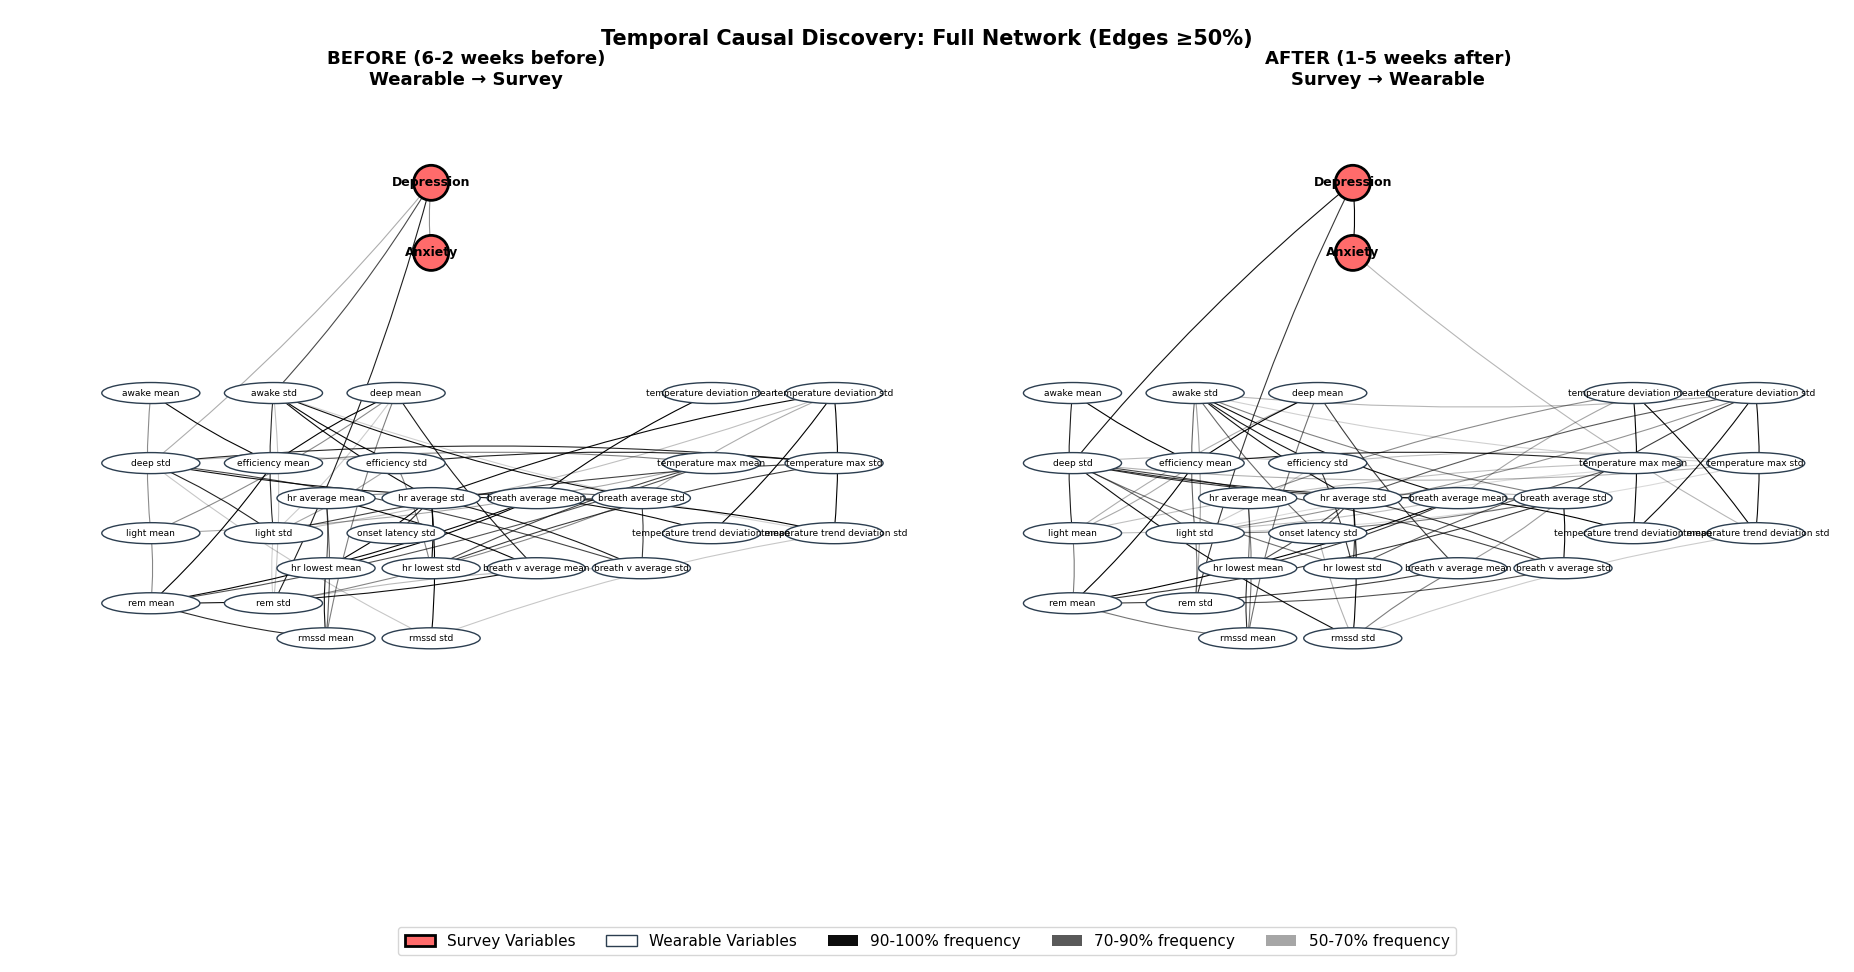
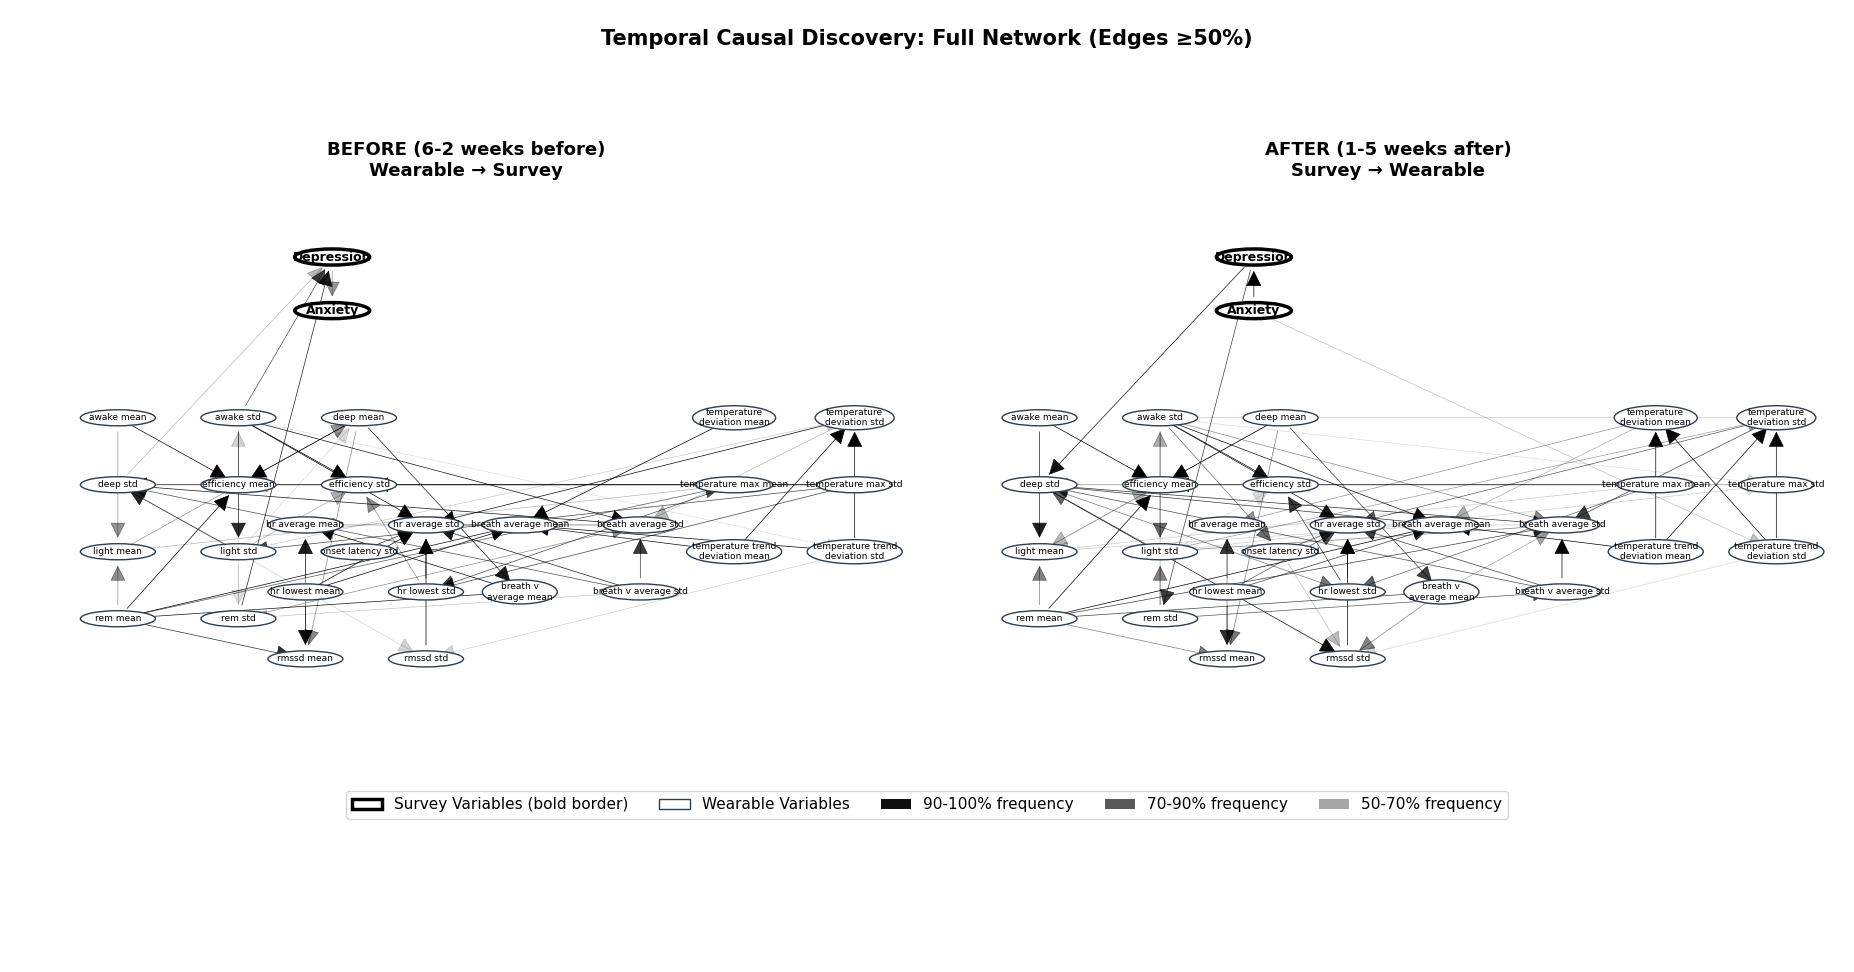
add another version of causal diagram plotting

diff --git a/plot_causal_diagram_2.py b/plot_causal_diagram_2.py
@@ -1,0 +1,347 @@
+import matplotlib.pyplot as plt
+import matplotlib.patches as mpatches
+from matplotlib.patches import Ellipse, Circle, FancyArrowPatch
+import numpy as np
+
+# All edges ≥50% for BEFORE period (wearable → survey)
+before_edges = {
+    ('rem_std', 'promis_dep_sum'): 93,
+    ('awake_std', 'promis_dep_sum'): 83,
+    ('promis_dep_sum', 'promis_anx_sum'): 67,
+    ('deep_std', 'promis_dep_sum'): 60,
+    ('rmssd_std', 'hr_average_std'): 100,
+    ('hr_lowest_mean', 'hr_average_std'): 100,
+    ('hr_lowest_std', 'hr_average_std'): 100,
+    ('hr_lowest_mean', 'breath_average_mean'): 100,
+    ('temperature_deviation_mean', 'breath_average_mean'): 100,
+    ('temperature_trend_deviation_std', 'breath_average_mean'): 100,
+    ('temperature_trend_deviation_mean', 'temperature_deviation_std'): 100,
+    ('temperature_trend_deviation_std', 'temperature_deviation_std'): 100,
+    ('deep_mean', 'efficiency_mean'): 100,
+    ('rem_mean', 'efficiency_mean'): 100,
+    ('breath_v_average_mean', 'hr_average_mean'): 99,
+    ('rem_mean', 'breath_average_mean'): 99,
+    ('awake_mean', 'efficiency_mean'): 99,
+    ('awake_std', 'efficiency_std'): 99,
+    ('temperature_deviation_std', 'hr_average_std'): 98,
+    ('awake_std', 'hr_average_std'): 98,
+    ('hr_lowest_mean', 'rmssd_mean'): 97,
+    ('temperature_trend_deviation_mean', 'breath_average_mean'): 97,
+    ('deep_std', 'breath_average_std'): 96,
+    ('awake_std', 'breath_average_std'): 96,
+    ('rem_mean', 'breath_v_average_mean'): 96,
+    ('breath_v_average_std', 'hr_average_std'): 94,
+    ('deep_mean', 'breath_v_average_mean'): 94,
+    ('temperature_max_std', 'efficiency_std'): 92,
+    ('light_std', 'deep_std'): 92,
+    ('onset_latency_std', 'hr_average_std'): 91,
+    ('temperature_max_std', 'deep_std'): 91,
+    ('rem_mean', 'rmssd_mean'): 90,
+    ('awake_std', 'light_std'): 90,
+    ('breath_v_average_std', 'breath_average_std'): 87,
+    ('temperature_max_std', 'hr_lowest_std'): 86,
+    ('temperature_max_std', 'light_std'): 85,
+    ('temperature_max_mean', 'hr_lowest_std'): 84,
+    ('breath_v_average_std', 'deep_std'): 84,
+    ('hr_lowest_mean', 'hr_average_mean'): 82,
+    ('rem_mean', 'temperature_max_mean'): 81,
+    ('rmssd_mean', 'hr_average_mean'): 78,
+    ('breath_average_std', 'hr_average_std'): 77,
+    ('deep_mean', 'rmssd_mean'): 71,
+    ('temperature_max_mean', 'efficiency_mean'): 70,
+    ('rem_std', 'breath_average_std'): 69,
+    ('rem_mean', 'light_mean'): 69,
+    ('hr_lowest_std', 'efficiency_std'): 69,
+    ('breath_average_mean', 'hr_average_mean'): 68,
+    ('awake_mean', 'light_mean'): 68,
+    ('light_mean', 'deep_mean'): 68,
+    ('light_std', 'efficiency_std'): 62,
+    ('light_mean', 'temperature_max_mean'): 61,
+    ('temperature_deviation_std', 'breath_average_std'): 60,
+    ('breath_v_average_std', 'rem_std'): 57,
+    ('efficiency_std', 'deep_std'): 57,
+    ('light_std', 'temperature_deviation_std'): 56,
+    ('rem_std', 'awake_std'): 55,
+    ('deep_std', 'rmssd_std'): 54,
+    ('temperature_trend_deviation_std', 'rmssd_std'): 54,
+    ('light_std', 'deep_mean'): 53,
+    ('awake_std', 'temperature_trend_deviation_std'): 52,
+    ('light_std', 'rem_std'): 52,
+}
+
+# All edges ≥50% for AFTER period (survey → wearable)
+after_edges = {
+    ('promis_anx_sum', 'promis_dep_sum'): 100,
+    ('promis_dep_sum', 'deep_std'): 96,
+    ('promis_dep_sum', 'rem_std'): 87,
+    ('promis_anx_sum', 'temperature_trend_deviation_std'): 58,
+    ('rmssd_std', 'hr_average_std'): 100,
+    ('temperature_trend_deviation_mean', 'breath_average_mean'): 100,
+    ('rem_mean', 'breath_average_mean'): 100,
+    ('deep_mean', 'efficiency_mean'): 100,
+    ('rem_mean', 'efficiency_mean'): 100,
+    ('awake_mean', 'efficiency_mean'): 100,
+    ('breath_v_average_std', 'breath_average_std'): 99,
+    ('temperature_trend_deviation_mean', 'temperature_deviation_mean'): 99,
+    ('temperature_trend_deviation_std', 'temperature_deviation_mean'): 99,
+    ('temperature_trend_deviation_mean', 'temperature_deviation_std'): 98,
+    ('temperature_trend_deviation_std', 'temperature_deviation_std'): 98,
+    ('deep_std', 'rmssd_std'): 97,
+    ('awake_std', 'breath_average_mean'): 97,
+    ('awake_std', 'hr_average_std'): 96,
+    ('awake_std', 'efficiency_std'): 95,
+    ('awake_mean', 'light_mean'): 93,
+    ('temperature_max_mean', 'efficiency_mean'): 92,
+    ('hr_lowest_mean', 'rmssd_mean'): 90,
+    ('deep_std', 'breath_average_std'): 90,
+    ('hr_lowest_std', 'hr_average_std'): 88,
+    ('deep_std', 'breath_average_mean'): 88,
+    ('breath_v_average_std', 'hr_average_std'): 87,
+    ('rem_mean', 'breath_average_std'): 87,
+    ('hr_lowest_std', 'efficiency_std'): 87,
+    ('hr_lowest_mean', 'breath_average_mean'): 87,
+    ('deep_mean', 'breath_v_average_mean'): 86,
+    ('rem_mean', 'breath_v_average_mean'): 86,
+    ('temperature_deviation_std', 'breath_average_std'): 86,
+    ('breath_v_average_std', 'deep_std'): 84,
+    ('onset_latency_std', 'hr_average_std'): 83,
+    ('hr_lowest_mean', 'hr_average_std'): 82,
+    ('rem_std', 'breath_v_average_std'): 81,
+    ('temperature_deviation_std', 'hr_average_std'): 80,
+    ('temperature_max_mean', 'hr_lowest_std'): 79,
+    ('light_std', 'deep_std'): 78,
+    ('awake_std', 'light_std'): 77,
+    ('awake_std', 'onset_latency_std'): 76,
+    ('deep_mean', 'rmssd_mean'): 74,
+    ('hr_lowest_mean', 'hr_average_mean'): 74,
+    ('deep_std', 'hr_lowest_std'): 74,
+    ('rem_mean', 'rmssd_mean'): 73,
+    ('rmssd_mean', 'hr_average_mean'): 73,
+    ('light_std', 'breath_average_std'): 72,
+    ('rem_mean', 'light_mean'): 72,
+    ('rem_std', 'light_std'): 72,
+    ('breath_v_average_mean', 'rmssd_std'): 71,
+    ('awake_std', 'breath_average_std'): 70,
+    ('temperature_deviation_mean', 'hr_average_mean'): 68,
+    ('light_std', 'temperature_deviation_std'): 66,
+    ('breath_v_average_mean', 'breath_average_std'): 64,
+    ('rem_std', 'awake_std'): 63,
+    ('temperature_deviation_mean', 'breath_average_mean'): 62,
+    ('light_mean', 'efficiency_mean'): 61,
+    ('deep_mean', 'light_mean'): 60,
+    ('onset_latency_std', 'rmssd_std'): 59,
+    ('deep_std', 'temperature_max_std'): 59,
+    ('awake_std', 'temperature_deviation_std'): 58,
+    ('breath_average_std', 'hr_average_std'): 57,
+    ('efficiency_std', 'deep_std'): 57,
+    ('temperature_max_mean', 'light_mean'): 56,
+    ('temperature_max_std', 'efficiency_std'): 56,
+    ('light_mean', 'breath_average_mean'): 56,
+    ('temperature_trend_deviation_std', 'rmssd_std'): 53,
+    ('light_std', 'efficiency_std'): 53,
+    ('awake_std', 'temperature_max_std'): 52,
+    ('breath_average_mean', 'hr_average_mean'): 51,
+    ('temperature_max_std', 'light_std'): 50,
+    ('light_std', 'temperature_max_std'): 50,
+}
+
+def format_label(var):
+    """Format variable label, breaking long names into two lines."""
+    if var == 'promis_dep_sum':
+        return 'Depression'
+    elif var == 'promis_anx_sum':
+        return 'Anxiety'
+    
+    # Replace underscores with spaces
+    label = var.replace('_', ' ')
+    
+    # Break long labels into two lines
+    if len(label) > 20:
+        words = label.split()
+        mid = len(words) // 2
+        line1 = ' '.join(words[:mid])
+        line2 = ' '.join(words[mid:])
+        return f"{line1}\n{line2}"
+    
+    return label
+
+def get_ellipse_size(var):
+    """Get ellipse size based on variable name length."""
+    label = format_label(var)
+    
+    # Check if label has line break
+    if '\n' in label:
+        max_line_len = max(len(line) for line in label.split('\n'))
+        width = max(2.8, max_line_len * 0.15 + 1.0)
+        height = 0.9
+    else:
+        width = max(2.8, len(label) * 0.12 + 0.5)
+        height = 0.6
+    
+    return width, height
+
+def create_hierarchical_layout(edges):
+    """Create a hierarchical layout with survey at top, grouped wearables below."""
+    survey_vars = {'promis_dep_sum', 'promis_anx_sum'}
+    
+    # Collect all nodes
+    all_nodes = set()
+    for (source, target) in edges.keys():
+        all_nodes.add(source)
+        all_nodes.add(target)
+    
+    # Separate survey and wearable variables
+    wearable_vars = all_nodes - survey_vars
+    
+    # Group wearables by category
+    sleep_vars = [v for v in wearable_vars if any(x in v for x in ['deep', 'rem', 'light', 'awake', 'efficiency', 'onset'])]
+    hr_vars = [v for v in wearable_vars if 'hr' in v or 'rmssd' in v]
+    breath_vars = [v for v in wearable_vars if 'breath' in v]
+    temp_vars = [v for v in wearable_vars if 'temperature' in v or 'temp' in v]
+    
+    positions = {}
+    
+    # Position survey variables at top center
+    if 'promis_dep_sum' in survey_vars:
+        positions['promis_dep_sum'] = (10, 18)
+    if 'promis_anx_sum' in survey_vars:
+        positions['promis_anx_sum'] = (10, 16)
+    
+    # Position wearable groups in layers with larger spacing
+    y_base = 12
+    x_positions = {
+        'sleep': (2, y_base),
+        'hr': (9, y_base - 4),
+        'breath': (17, y_base - 4),
+        'temp': (25, y_base)
+    }
+    
+    # Layout sleep variables with larger spacing
+    for i, var in enumerate(sorted(sleep_vars)):
+        x_offset = (i % 3) * 4.5
+        y_offset = (i // 3) * -2.5
+        positions[var] = (x_positions['sleep'][0] + x_offset, x_positions['sleep'][1] + y_offset)
+    
+    # Layout HR variables with larger spacing
+    for i, var in enumerate(sorted(hr_vars)):
+        x_offset = (i % 2) * 4.5
+        y_offset = (i // 2) * -2.5
+        positions[var] = (x_positions['hr'][0] + x_offset, x_positions['hr'][1] + y_offset)
+    
+    # Layout breath variables with larger spacing
+    for i, var in enumerate(sorted(breath_vars)):
+        x_offset = (i % 2) * 4.5
+        y_offset = (i // 2) * -2.5
+        positions[var] = (x_positions['breath'][0] + x_offset, x_positions['breath'][1] + y_offset)
+    
+    # Layout temp variables with larger spacing
+    for i, var in enumerate(sorted(temp_vars)):
+        x_offset = (i % 2) * 4.5
+        y_offset = (i // 2) * -2.5
+        positions[var] = (x_positions['temp'][0] + x_offset, x_positions['temp'][1] + y_offset)
+    
+    return positions
+
+def create_clean_hierarchical_plot(edges, title, ax):
+    """Create hierarchical network visualization."""
+    survey_vars = {'promis_dep_sum', 'promis_anx_sum'}
+    
+    # Get positions
+    pos = create_hierarchical_layout(edges)
+    
+    # Draw edges with thin lines and thick arrowheads
+    for (source, target), percentage in edges.items():
+        if source not in pos or target not in pos:
+            continue
+        
+        start_pos = pos[source]
+        end_pos = pos[target]
+        
+        # Calculate opacity: map 50%-100% to 10%-100%
+        alpha = 0.1 + ((percentage - 50) / 50) * 0.9
+        
+        # Use FancyArrowPatch with thin line but thick arrowhead
+        # The mutation_scale parameter controls arrow size independently
+        arrow = FancyArrowPatch(
+            start_pos, end_pos,
+            arrowstyle='-|>',  # Simple arrow style
+            color='black',
+            linewidth=0.5,  # Very thin line
+            alpha=alpha,
+            connectionstyle="arc3,rad=0.0",
+            mutation_scale=25,  # Controls arrow head size
+            zorder=1,
+            shrinkA=10,
+            shrinkB=10
+        )
+        ax.add_patch(arrow)
+    
+    # Draw nodes
+    for node, node_pos in pos.items():
+        is_survey = node in survey_vars
+        width, height = get_ellipse_size(node)
+        label = format_label(node)
+        
+        if is_survey:
+            # Elliptical nodes for survey variables
+            ellipse = Ellipse(node_pos, width, height,
+                            facecolor='white',
+                            edgecolor='black',
+                            linewidth=2.5,  # Bold border
+                            zorder=3)
+            ax.add_patch(ellipse)
+            fontsize = 9
+            fontweight = 'bold'
+        else:
+            # Elliptical nodes for wearables
+            ellipse = Ellipse(node_pos, width, height,
+                            facecolor='white',
+                            edgecolor='#2C3E50',
+                            linewidth=1,
+                            zorder=3)
+            ax.add_patch(ellipse)
+            fontsize = 6.5
+            fontweight = 'normal'
+        
+        ax.text(node_pos[0], node_pos[1], label,
+               ha='center', va='center',
+               fontsize=fontsize, fontweight=fontweight,
+               zorder=4)
+    
+    ax.set_xlim(-2, 32)
+    ax.set_ylim(-2, 20)
+    ax.set_aspect('equal')
+    ax.axis('off')
+    ax.set_title(title, fontsize=13, fontweight='bold', pad=20)
+
+# Create figure
+fig, axes = plt.subplots(1, 2, figsize=(26, 14))
+fig.suptitle('Temporal Causal Discovery: Full Network (Edges ≥50%)',
+             fontsize=15, fontweight='bold', y=0.97)
+
+# Create plots
+create_clean_hierarchical_plot(before_edges,
+                               'BEFORE (6-2 weeks before)\nWearable → Survey',
+                               axes[0])
+create_clean_hierarchical_plot(after_edges,
+                               'AFTER (1-5 weeks after)\nSurvey → Wearable',
+                               axes[1])
+
+# Add legend
+legend_elements = [
+    mpatches.FancyBboxPatch((0, 0), 1, 0.4, boxstyle="round,pad=0.1", 
+                            facecolor='white', edgecolor='black', linewidth=2.5, 
+                            label='Survey Variables (bold border)'),
+    mpatches.FancyBboxPatch((0, 0), 1, 0.4, boxstyle="round,pad=0.1",
+                            facecolor='white', edgecolor='#2C3E50', linewidth=1, 
+                            label='Wearable Variables'),
+    mpatches.Patch(facecolor='black', alpha=0.95, label='90-100% frequency'),
+    mpatches.Patch(facecolor='black', alpha=0.65, label='70-90% frequency'),
+    mpatches.Patch(facecolor='black', alpha=0.35, label='50-70% frequency')
+]
+fig.legend(handles=legend_elements, loc='lower center',
+          ncol=5, fontsize=11, frameon=True, bbox_to_anchor=(0.5, 0.15))
+
+plt.tight_layout()
+plt.savefig('temporal_causal_networks_hierarchical.png', dpi=300, bbox_inches='tight')
+plt.show()
